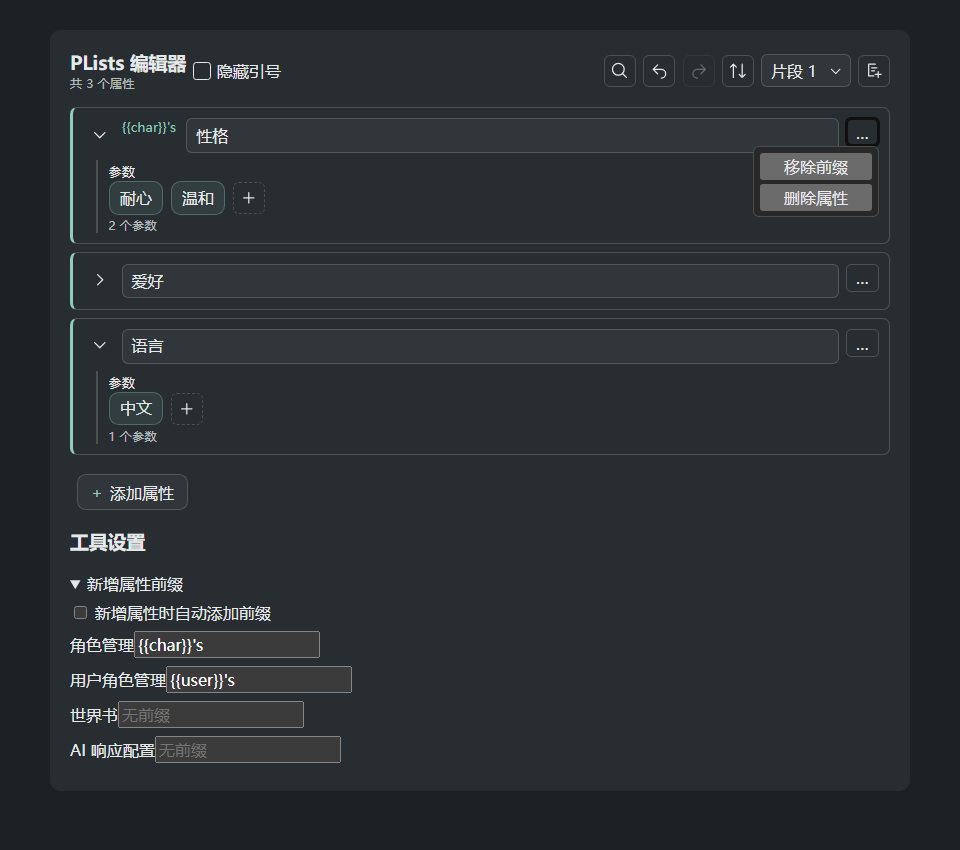
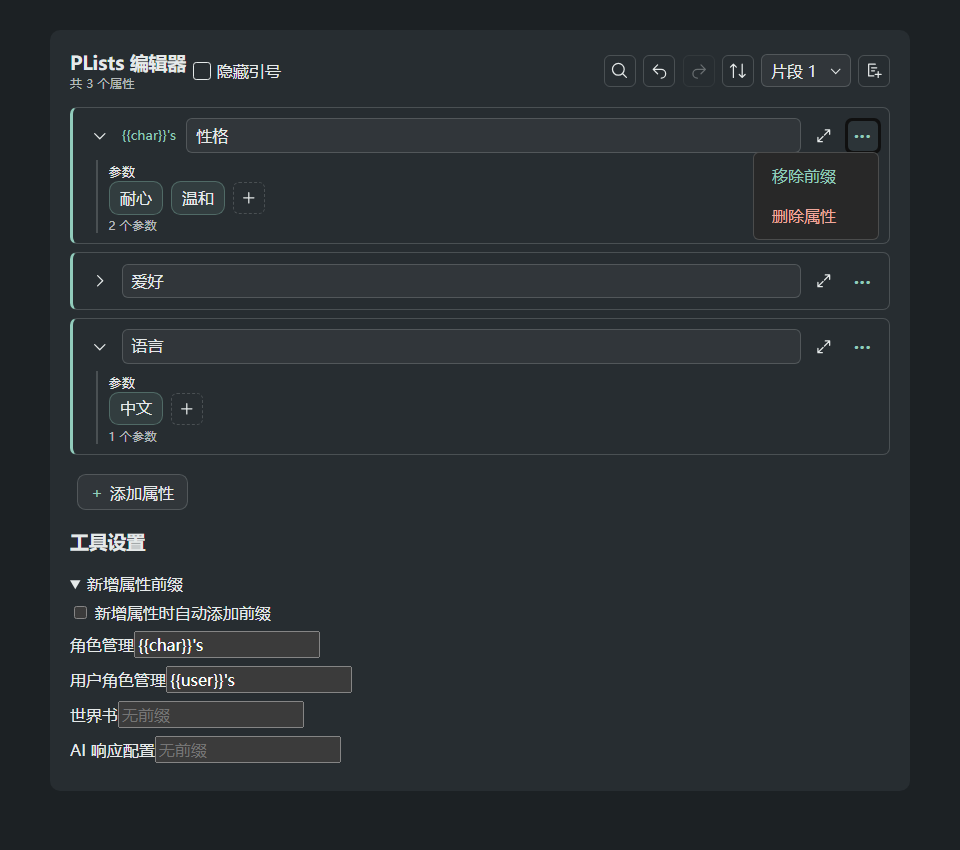
优化 PLists 属性菜单并接入原生全屏编辑器

diff --git a/tools/plist-editor.js b/tools/plist-editor.js
@@ -8,6 +8,7 @@ import { parameterSelection } from './plist-selection.js';
 import { defaults, getPresets } from './plist-presets.js';
 
 let refreshTool;
+let nextFieldId = 0;
 let nextParameterEdit = 0;
 const windowSizes = [70, 85, 95, 100];
 const defaultPrefixes = { character: "{{char}}'s ", persona: "{{user}}'s " };
@@ -34,11 +35,12 @@ function action(label, run) {
     const button = element('button', label);
     button.type = 'button';
     button.className = 'menu_button';
-    button.addEventListener('click', run);
+    if (run) button.addEventListener('click', run);
     return button;
 }
 
 const paths = {
+    expand: 'M14 4h6v6m0-6-7 7M10 20H4v-6m0 6 7-7',
     fold: 'm5 9 7 7 7-7',
     find: 'M16 16l5 5M18 10a8 8 0 1 1-16 0 8 8 0 1 1 16 0',
     add: 'M12 5v14M5 12h14',
@@ -94,6 +96,14 @@ function macroField() {
     return field;
 }
 
+function expandButton(field) {
+    field.id = 'stmt-plist-field-' + ++nextFieldId;
+    const button = iconButton('全屏编辑' + field.getAttribute('aria-label'), 'expand');
+    button.classList.add('editor_maximize');
+    button.dataset.for = field.id;
+    return button;
+}
+
 function wrapper(value) {
     if (/^"(?:\\[\s\S]|[^"\\])*"$/u.test(value)) return '"';
     if (/^“(?:\\[\s\S]|[^”\\])*”$/u.test(value)) return '”';
@@ -132,16 +142,19 @@ function rowList(container, initial, presets = [], prefix = '', usePrefix = () =
         measure.setAttribute('aria-hidden', 'true');
         const measureKey = () => { measure.textContent = key.value + ' '; };
         measureKey();
-        key.addEventListener('input', measureKey);
-        key.addEventListener('input', markNames);
-        key.addEventListener('input', () => changed?.('name-' + rows.indexOf(row)));
+        // ST writes fullscreen changes back with jQuery.trigger('input'), which calls oninput.
+        key.oninput = () => {
+            measureKey();
+            markNames();
+            changed?.('name-' + rows.indexOf(row));
+        };
         key.addEventListener('scroll', () => { measure.scrollTop = key.scrollTop; });
         keyBox.append(measure, key);
         const nameCell = box('pl-name-cell');
         const prefixTag = element('small', appliedPrefix);
         prefixTag.hidden = !appliedPrefix;
         nameCell.append(prefixTag);
-        nameCell.append(keyBox);
+        nameCell.append(keyBox, expandButton(key));
         const initialItems = (splitTraits(value) ?? [value]).map(x => x.trim()).filter(Boolean);
         const items = [...initialItems];
         const display = raw => quoteToggle?.checked ? unquote(raw) : raw;
@@ -196,7 +209,7 @@ function rowList(container, initial, presets = [], prefix = '', usePrefix = () =
                 const text = rawInput();
                 return text === originalRaw ? undefined : { index, text, group };
             };
-            input.addEventListener('input', () => changed?.(group));
+            input.oninput = () => changed?.(group);
             const commit = () => {
                 let next = rawInput();
                 if (!next && editing) return invalid(input, '请输入参数，或点击删除图标。');
@@ -212,7 +225,7 @@ function rowList(container, initial, presets = [], prefix = '', usePrefix = () =
             const commitFocus = () => {
                 if (commit()) chips.children[Math.min(index, items.length)].focus();
             };
-            drawer.replaceChildren(input, iconButton('确认参数', 'done', commitFocus));
+            drawer.replaceChildren(input, expandButton(input), iconButton('确认参数', 'done', commitFocus));
             if (editing) drawer.append(iconButton('删除参数', 'remove', () => {
                 items.splice(index, 1);
                 close();
@@ -279,9 +292,10 @@ function rowList(container, initial, presets = [], prefix = '', usePrefix = () =
         const refreshQuotes = () => { paint(); refreshDrawer?.(); };
         quoteToggle?.addEventListener('change', refreshQuotes, { signal });
         const menu = box('pl-row-menu', 'details');
-        const trigger = element('summary', '…');
+        const trigger = element('summary');
         trigger.setAttribute('aria-label', '属性操作');
         trigger.title = '属性操作';
+        trigger.append(element('span', '•••'));
         const actions = box('pl-row-actions');
         if (prefix) {
             const togglePrefix = action(appliedPrefix ? '移除前缀' : '添加前缀', () => {
@@ -316,6 +330,7 @@ function rowList(container, initial, presets = [], prefix = '', usePrefix = () =
             line.remove();
             changed?.();
         });
+        remove.classList.add('pl-delete-attribute');
         actions.append(remove);
         line.append(nameCell, parameters, menu, drawer);
         list.append(line);

diff --git a/style.css b/style.css
@@ -1627,7 +1627,7 @@ dialog.stmt-rp[open] { display: flex; flex-direction: column; }
     border-inline-start: 3px solid var(--pl-accent);
     border-radius: 7px;
 }
-.st-plist .pl-name-cell { display: flex; align-items: start; flex-wrap: wrap; gap: .4em; }
+.st-plist .pl-name-cell { display: flex; align-items: center; flex-wrap: wrap; gap: .4em; }
 .st-plist .pl-name-cell button { white-space: nowrap; }
 .st-plist .pl-name-cell .pl-key { flex: 1 1 8em; }
 .st-plist .pl-row > .pl-icon { grid-area: 1 / 2; }
@@ -1653,14 +1653,20 @@ dialog.stmt-rp[open] { display: flex; flex-direction: column; }
     box-shadow: 0 .25em .7em #0005;
 }
 .st-plist .pl-name-cell .pl-icon[aria-expanded="false"] svg { transform: rotate(-90deg); }
-.st-plist .pl-row-menu { grid-area: 1 / 2; position: relative; }
+.st-plist .pl-row-menu { grid-area: 1 / 2; position: relative; align-self: center; }
 .st-plist .pl-row-menu summary {
+    display: grid;
+    place-items: center;
+    width: 2em;
+    height: 2em;
     list-style: none;
     cursor: pointer;
-    padding: .15em .55em;
-    border: 1px solid var(--pl-line);
-    border-radius: 5px;
+    border: 0;
+    border-radius: 6px;
+    color: var(--pl-accent);
 }
+.st-plist .pl-row-menu summary span { font-size: .72em; letter-spacing: .08em; }
+.st-plist .pl-row-menu[open] summary, .st-plist .pl-row-menu summary:hover { background: var(--pl-surface); }
 .st-plist .pl-row-menu summary::-webkit-details-marker { display: none; }
 .st-plist .pl-row-actions {
     width: max-content;
@@ -1675,4 +1681,15 @@ dialog.stmt-rp[open] { display: flex; flex-direction: column; }
     border: 1px solid var(--pl-line);
     border-radius: 6px;
 }
-.st-plist .pl-row-actions button { width: 100%; white-space: nowrap; }
+.st-plist .pl-row-actions button {
+    width: 100%;
+    padding: .45em .75em;
+    border: 0;
+    box-shadow: none;
+    background: transparent;
+    color: var(--pl-accent);
+    text-align: start;
+    white-space: nowrap;
+}
+.st-plist .pl-row-actions .pl-delete-attribute { color: var(--SmartThemeQuoteColor, #efa89c); }
+.st-plist .pl-row-actions button:is(:hover, :focus-visible) { background: var(--pl-surface); }
